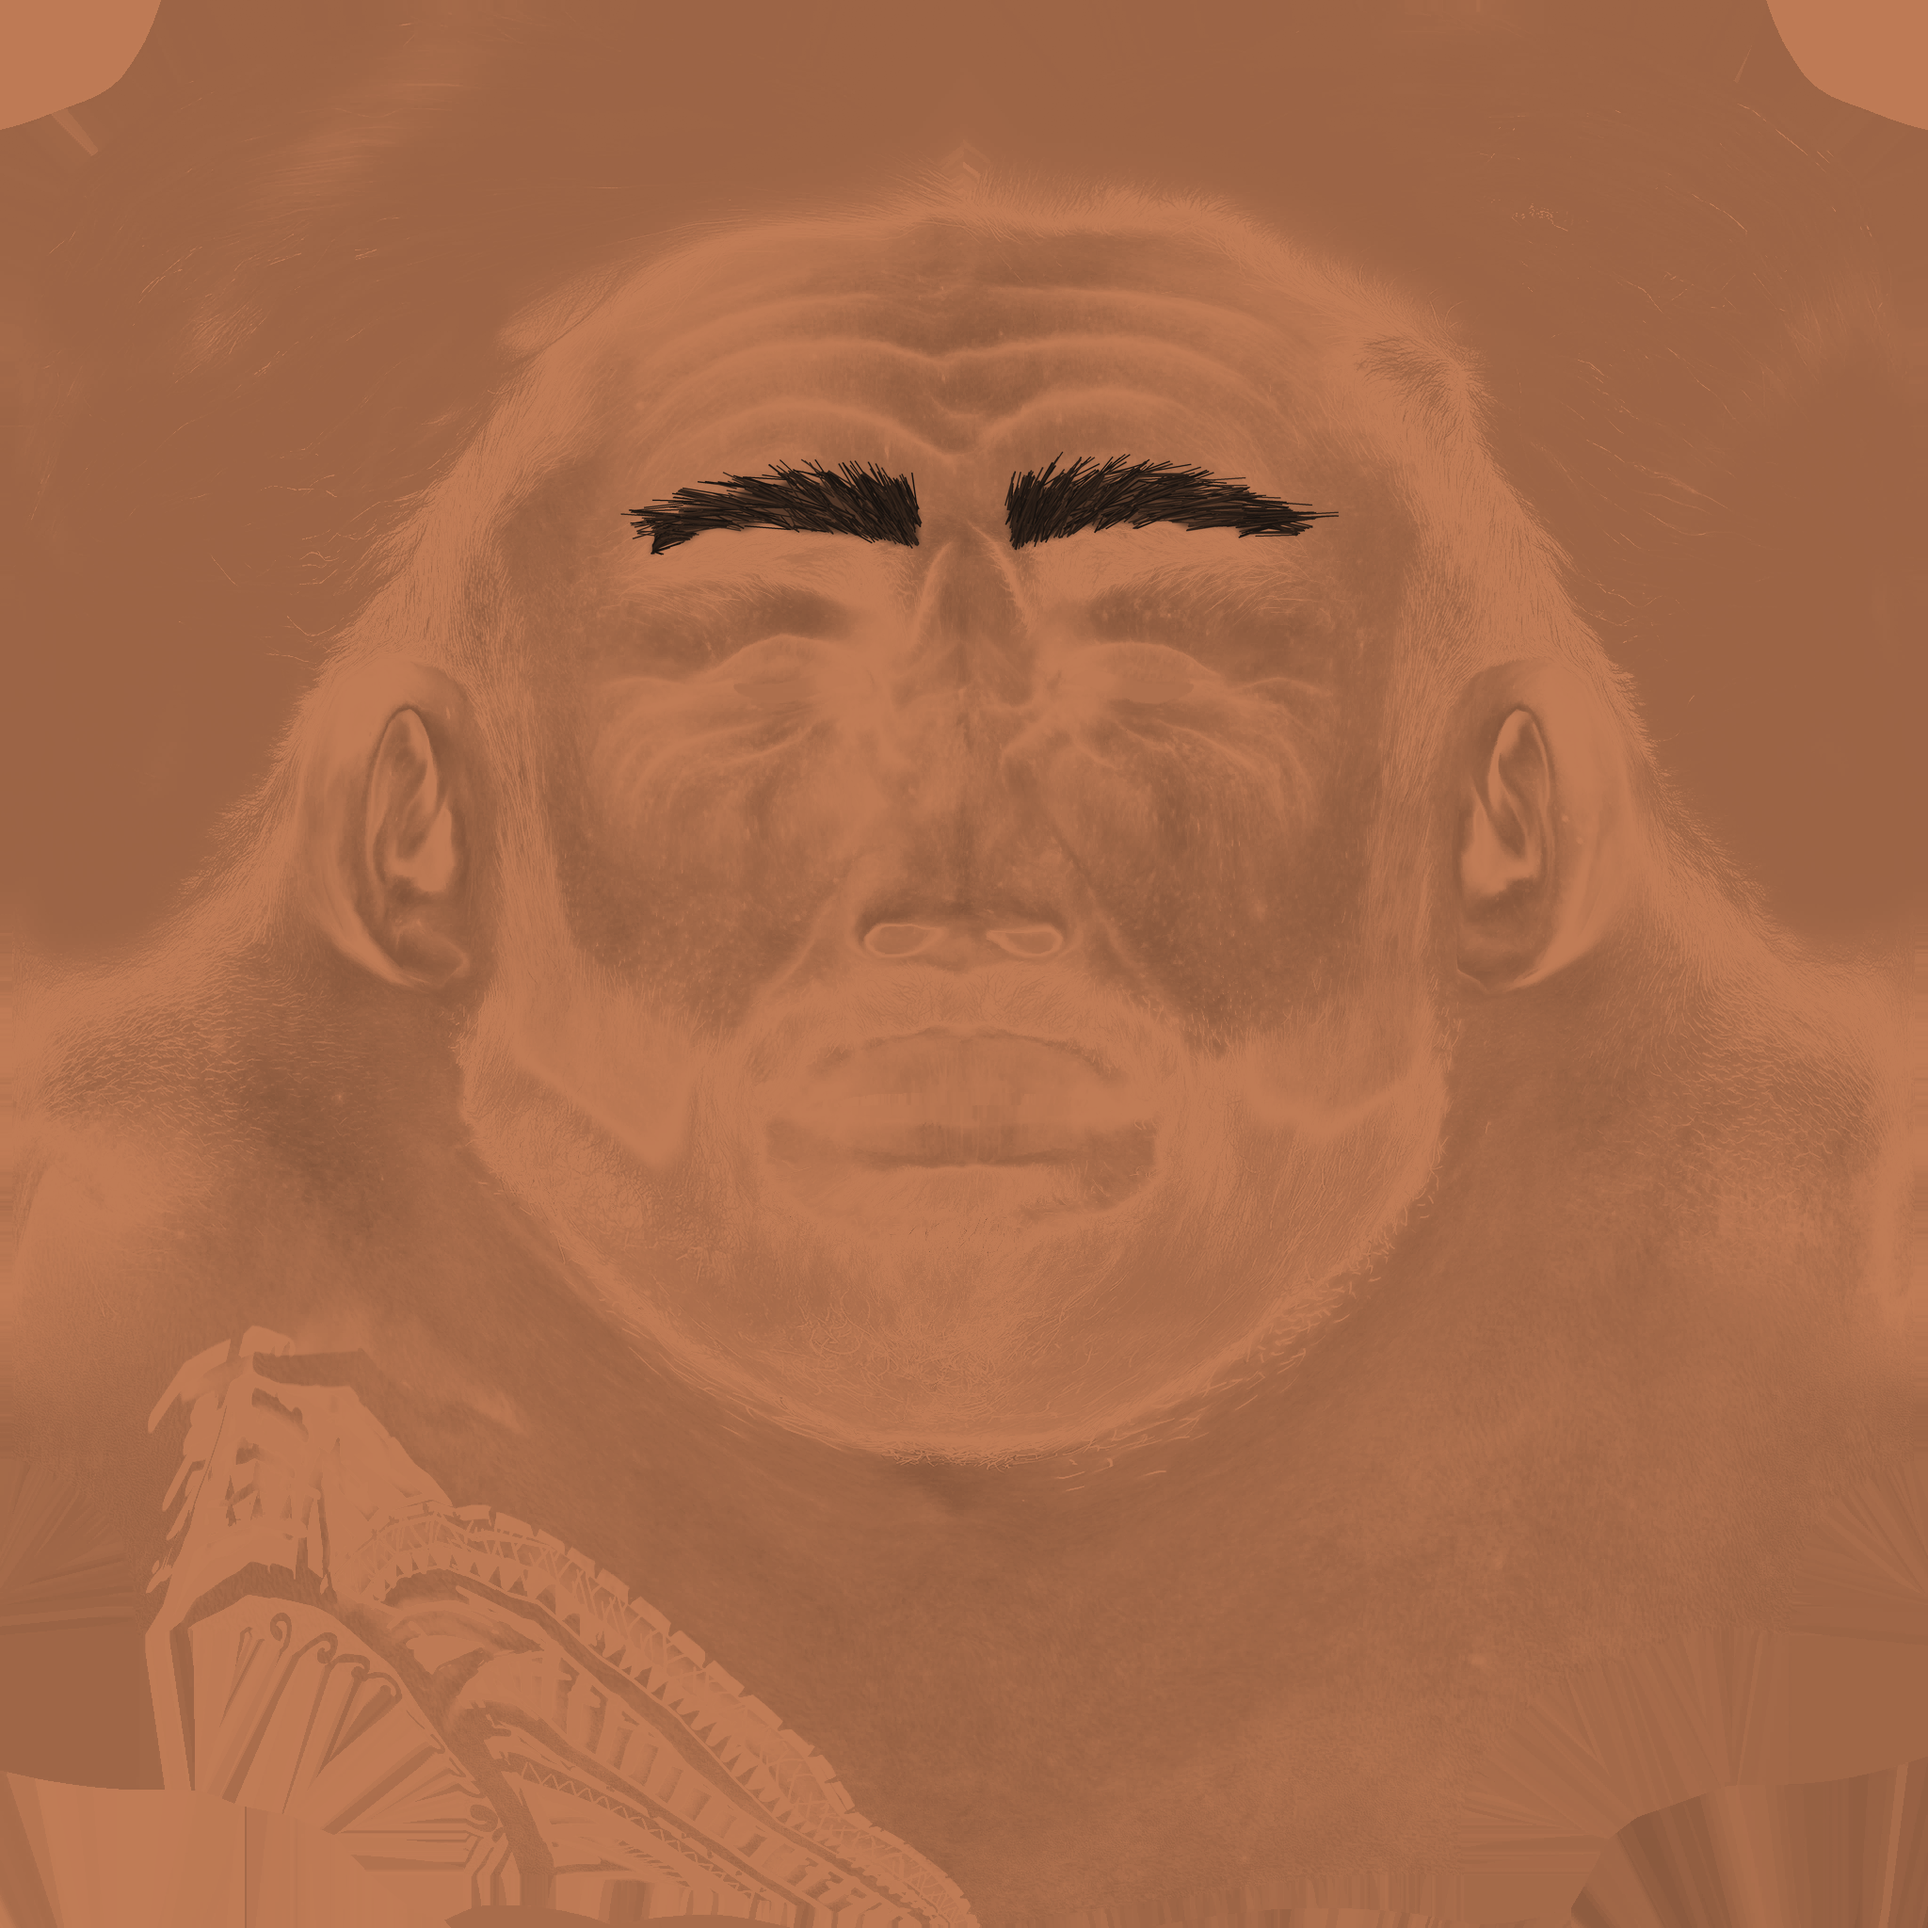
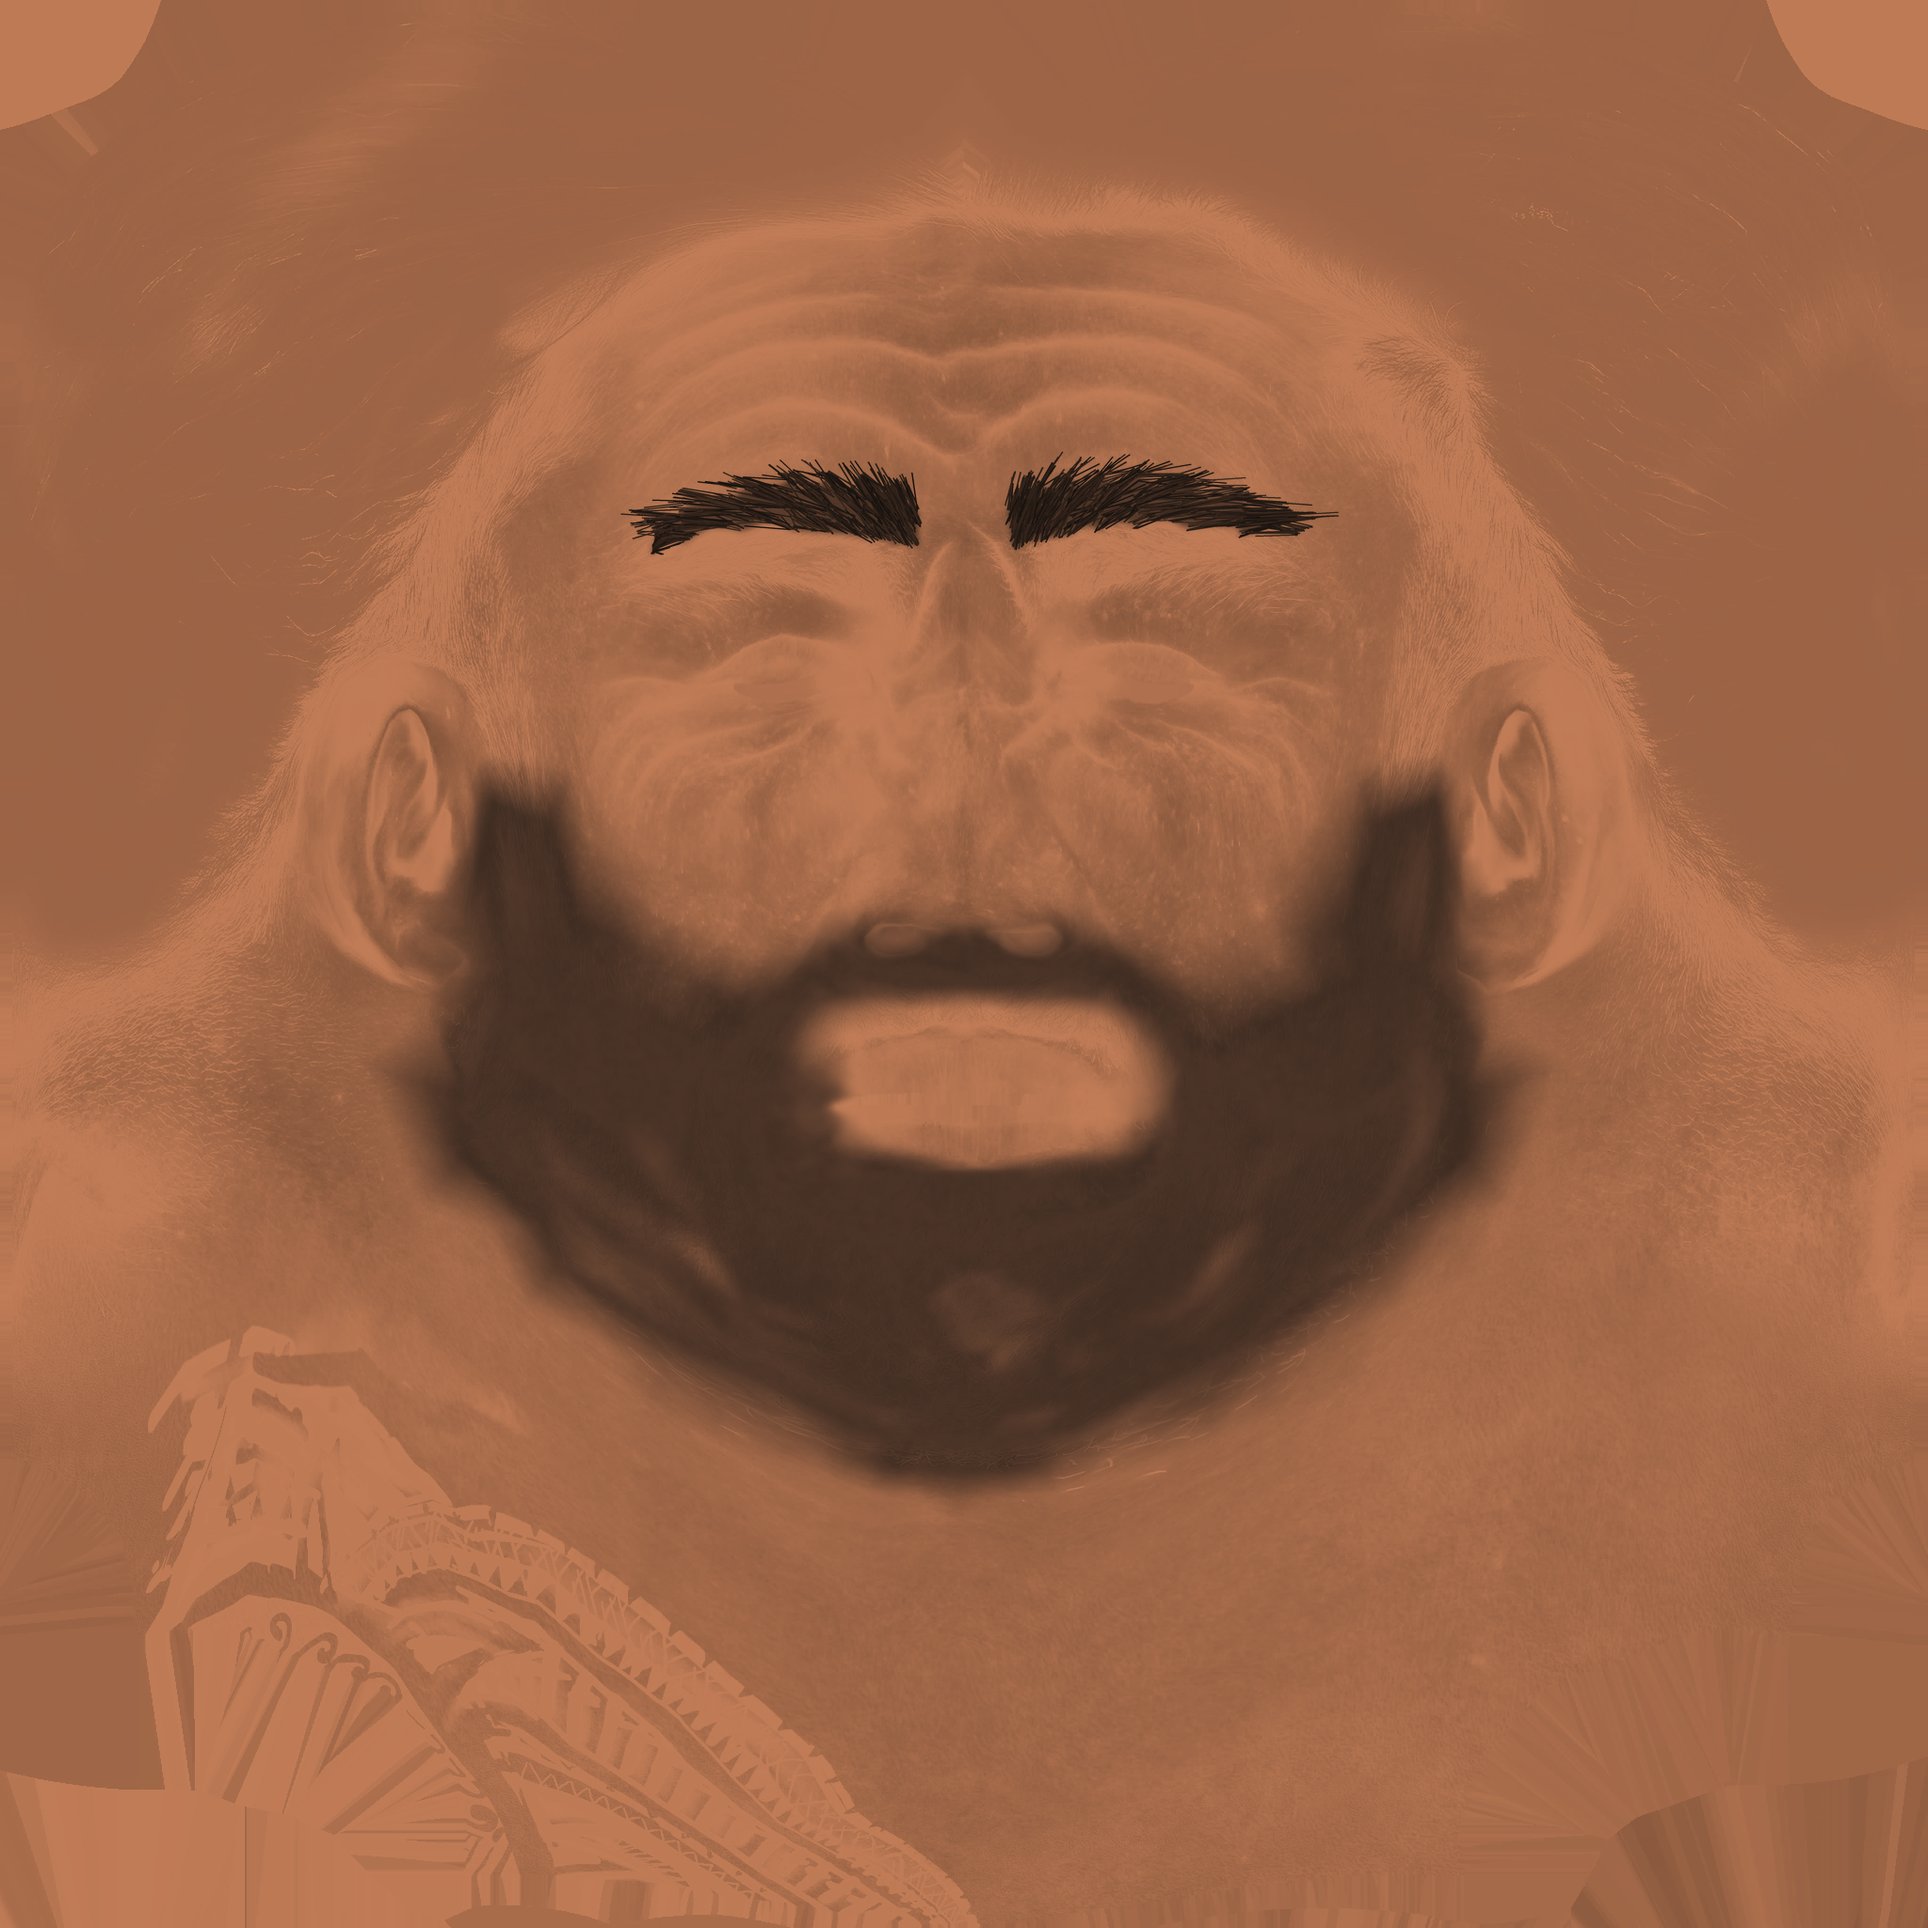
Roman likeness 2: a painted beard shadow under the beard cards
The beard read as a flat cut-out with stepped edges, a disconnected
moustache and a pale gap under the lip: skin showing between the cards. A
shadow is now painted into the head albedo under them, placed from the card
mesh itself (distance from each head vertex to the nearest card), feathered,
with stubble grain, and kept off the lips.

Claude-Session: https://claude.ai/code/session_01BWenwGPxEAxeGD4VFg9EHz

Changed region(s): [[0.1875, 0.375, 0.8125, 0.7812]]

diff --git a/tools/assets/build_roman_hair_alpha.py b/tools/assets/build_roman_hair_alpha.py
@@ -260,6 +260,13 @@ def _glb_attributes(path: pathlib.Path, mesh_name: str) -> dict:
     binary = 20 + json_len + 8
     mesh = next(m for m in gltf["meshes"] if m["name"] == mesh_name)
     out = {}
+    prim = mesh["primitives"][0]
+    if "indices" in prim:
+        acc = gltf["accessors"][prim["indices"]]
+        view = gltf["bufferViews"][acc["bufferView"]]
+        fmt = {5121: "B", 5123: "H", 5125: "I"}[acc["componentType"]]
+        start = binary + view.get("byteOffset", 0) + acc.get("byteOffset", 0)
+        out["INDICES"] = list(struct.unpack_from("<%d%s" % (acc["count"], fmt), data, start))
     for key in ("POSITION", "NORMAL", "TEXCOORD_0"):
         accessor = gltf["accessors"][mesh["primitives"][0]["attributes"][key]]
         view = gltf["bufferViews"][accessor["bufferView"]]
@@ -344,6 +351,89 @@ def paint_brows(model: pathlib.Path, target: pathlib.Path) -> None:
     print(f"{'brows':38} -> {target.name:34} {2 * BROW_STRANDS} strands")
 
 
+## The beard's shadow, painted into the head albedo under the beard cards.
+##
+## Against the owner's side-by-side the beard read as a flat black cut-out
+## with stepped edges, a disconnected moustache and a pale gap under the lower
+## lip -- where he has one continuous, dense beard. The cards are fine; what
+## showed was SKIN between and around them. A game beard is always two
+## layers: cards for the silhouette, and a painted shadow on the skin beneath
+## so the gaps read as more beard. Where to paint it is taken from the cards
+## themselves (M_Combinations, which is all beard: it stops at the bottom of
+## the eyes), not guessed: each head vertex is darkened by its distance to the
+## nearest card vertex, full inside BEARD_SHADOW_NEAR, feathering out to
+## nothing at BEARD_SHADOW_FAR -- reach enough to close the lip gap and join
+## the moustache, soft enough that the edge feathers instead of stepping.
+BEARD_SHADOW_COLOR = (30, 24, 21)
+BEARD_SHADOW_NEAR = 0.004
+BEARD_SHADOW_FAR = 0.014
+BEARD_SHADOW_OPACITY = 0.82
+BEARD_SHADOW_SEED = 11
+BEARD_LIP_Y = 1.646
+BEARD_LIP_HALF_W = 0.028
+BEARD_LIP_HALF_H = 0.0105
+
+
+def paint_beard_shadow(model: pathlib.Path, target: pathlib.Path) -> None:
+    import numpy as np
+    head = _glb_attributes(model, "M_Head")
+    cards = np.array(_glb_attributes(model, "M_Combinations")["POSITION"])
+    pos = np.array(head["POSITION"])
+    uv = np.array(head["TEXCOORD_0"])
+    tris = np.array(head["INDICES"]).reshape(-1, 3)
+    # Nearest card vertex per head vertex, in chunks.
+    near = np.empty(len(pos))
+    for i in range(0, len(pos), 256):
+        d = np.linalg.norm(pos[i:i + 256, None, :] - cards[None, :, :], axis=2)
+        near[i:i + 256] = d.min(axis=1)
+    weight = np.clip(1.0 - (near - BEARD_SHADOW_NEAR)
+                     / (BEARD_SHADOW_FAR - BEARD_SHADOW_NEAR), 0.0, 1.0)
+    # Never above the cheekbone line or behind the ear.
+    weight[pos[:, 1] > 1.700] = 0.0
+    weight[pos[:, 2] < 0.0] = 0.0
+    # And never on the lips: the moustache and chin cards sit right against
+    # them, and a first render painted the mouth grey. An ellipse over the
+    # mouth (teeth, tongue and mouth bag span y 1.61-1.67 and x +-0.035;
+    # the lips are the middle of that), feathered at its edge.
+    lip = np.sqrt((pos[:, 0] / BEARD_LIP_HALF_W) ** 2
+                  + ((pos[:, 1] - BEARD_LIP_Y) / BEARD_LIP_HALF_H) ** 2)
+    weight *= np.clip((lip - 1.0) / 0.35, 0.0, 1.0)
+    albedo = Image.open(target).convert("RGB")
+    size = albedo.size[0]
+    field = np.zeros((size, size), dtype=np.float32)
+    for tri in tris:
+        w = weight[tri]
+        if w.max() <= 0.0:
+            continue
+        p = uv[tri] * size
+        x0, y0 = np.floor(p.min(axis=0)).astype(int)
+        x1, y1 = np.ceil(p.max(axis=0)).astype(int)
+        x0, y0 = max(x0, 0), max(y0, 0)
+        x1, y1 = min(x1, size - 1), min(y1, size - 1)
+        if x1 < x0 or y1 < y0:
+            continue
+        xs, ys = np.meshgrid(np.arange(x0, x1 + 1) + 0.5, np.arange(y0, y1 + 1) + 0.5)
+        (ax, ay), (bx, by), (cx, cy) = p
+        den = (by - cy) * (ax - cx) + (cx - bx) * (ay - cy)
+        if abs(den) < 1e-9:
+            continue
+        l0 = ((by - cy) * (xs - cx) + (cx - bx) * (ys - cy)) / den
+        l1 = ((cy - ay) * (xs - cx) + (ax - cx) * (ys - cy)) / den
+        l2 = 1.0 - l0 - l1
+        inside = (l0 >= -0.01) & (l1 >= -0.01) & (l2 >= -0.01)
+        val = l0 * w[0] + l1 * w[1] + l2 * w[2]
+        region = field[y0:y1 + 1, x0:x1 + 1]
+        region[inside] = np.maximum(region[inside], val[inside])
+    # Stubble grain, seeded: a beard shadow is not a flat fill.
+    rng = np.random.default_rng(BEARD_SHADOW_SEED)
+    grain = 0.78 + 0.22 * rng.random((size, size), dtype=np.float32)
+    mask = Image.fromarray(np.clip(field * grain * BEARD_SHADOW_OPACITY * 255, 0, 255)
+                           .astype(np.uint8), "L").filter(ImageFilter.GaussianBlur(3))
+    shadow = Image.new("RGB", albedo.size, BEARD_SHADOW_COLOR)
+    Image.composite(shadow, albedo, mask).save(target, optimize=True)
+    print(f"{'beard shadow':38} -> {target.name:34} {int((field > 0.05).sum())} texels")
+
+
 def main() -> int:
     if not CHARACTERS.is_dir():
         sys.exit(f"not found: {CHARACTERS}")
@@ -358,6 +448,7 @@ def main() -> int:
         CHARACTERS / "roman_reigns_head_color.png",
     )
     paint_brows(CHARACTERS / "roman_reigns.glb", CHARACTERS / "roman_reigns_head_color.png")
+    paint_beard_shadow(CHARACTERS / "roman_reigns.glb", CHARACTERS / "roman_reigns_head_color.png")
     return 0
 
 
